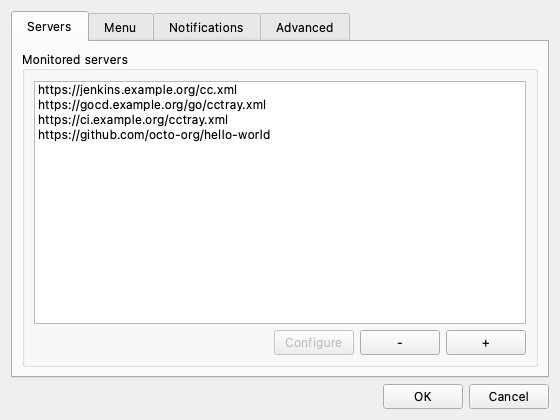
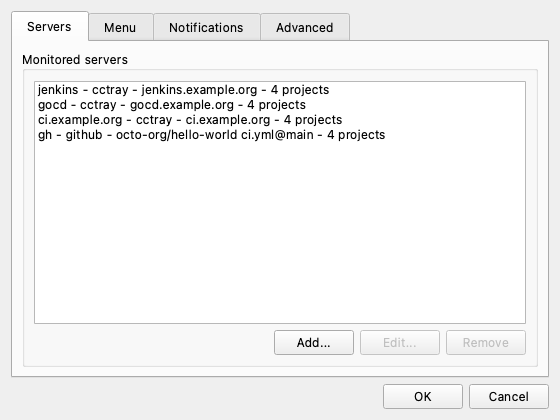
Document the server rows and refresh the Servers screenshot

diff --git a/scripts/screenshots.py b/scripts/screenshots.py
@@ -104,7 +104,8 @@ def empty_tray_menu(icons: BuildIcons) -> None:
 
 
 def preferences(settings: AppSettings) -> None:
-    dialog = PreferencesDialog(settings, HttpConnection())
+    counts = {server.url: 4 for server in settings.servers}
+    dialog = PreferencesDialog(settings, HttpConnection(), project_counts=counts)
     dialog.resize(560, 420)
     for index, name in enumerate(["servers.png", "menu.png", "notifications.png", "advanced.png"]):
         dialog.tabs.setCurrentIndex(index)

diff --git a/docs/usage.md b/docs/usage.md
@@ -16,7 +16,7 @@ Add a new server by clicking the `+` sign. Each server can use a username and pa
 
 Save works without testing the server first, so you can add one that is down, and all of its projects are included. Test connection shows how many projects the feed has, or a short error, and then lists them so you can untick the ones you don't want.
 
-The Servers tab of Preferences lists the monitored servers.
+The Servers tab of Preferences lists the monitored servers, one row each with its name (the prefix, else the host), source kind, target and the number of projects found by the last poll. GitHub rows show the repository and `workflow@branch`. `Add...` (Insert), `Edit...` (Enter or double-click) and `Remove` (Delete) change the list, and Remove asks first.
 
 ![Servers tab](images/servers.png)
 
